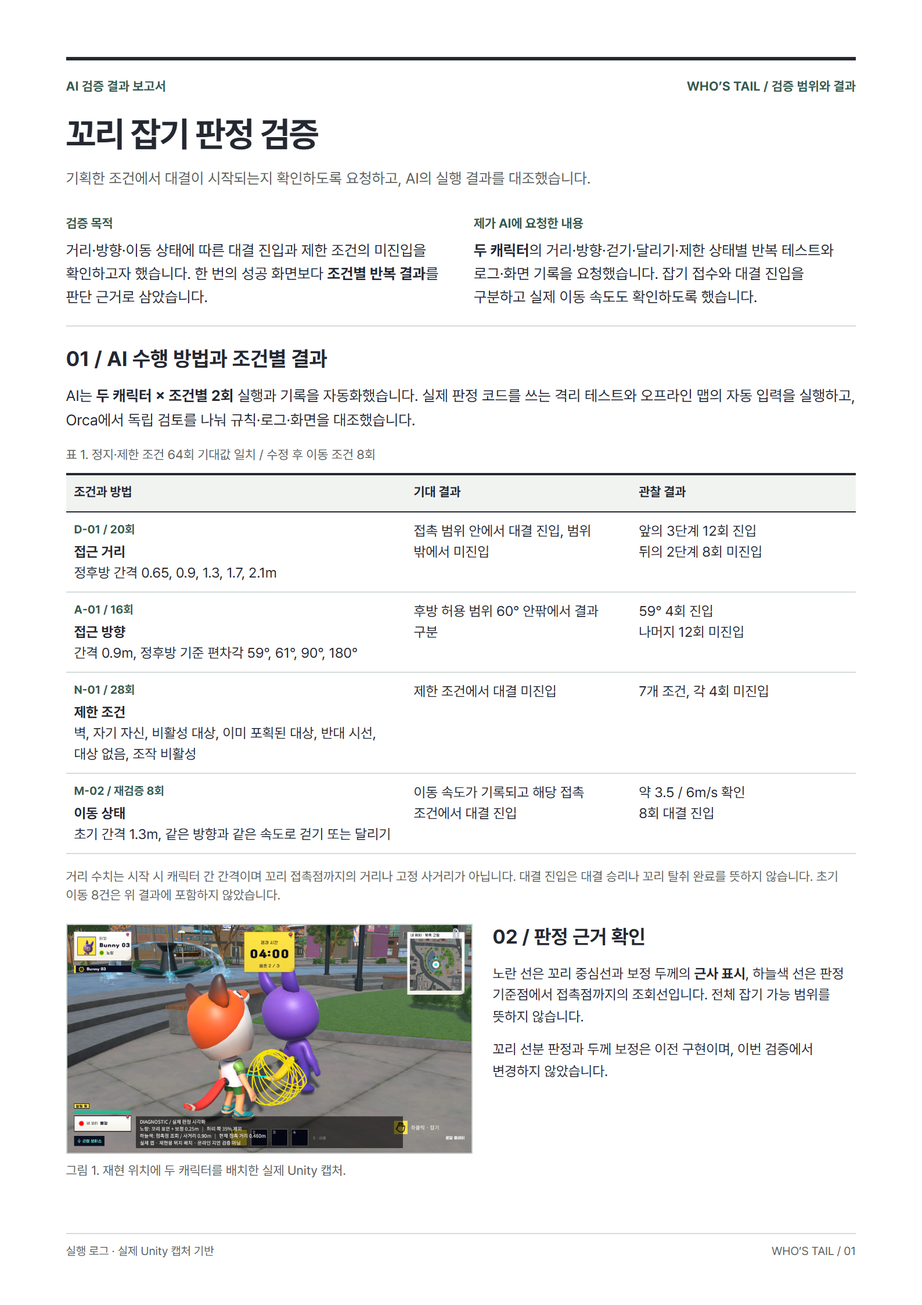
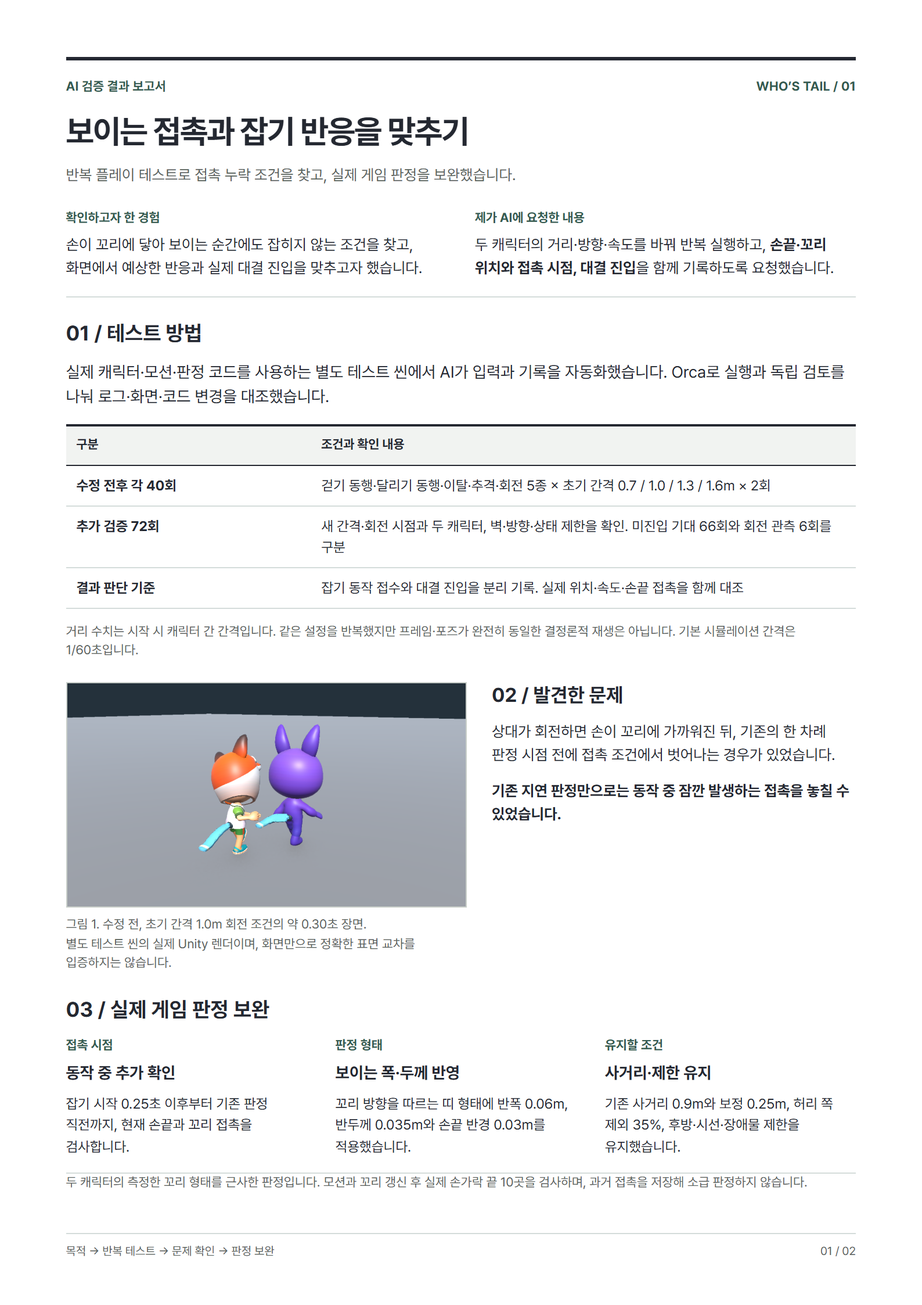
Update tail contact report with verified gameplay changes

diff --git a/docs/whos-tail/test-report-20261022.html b/docs/whos-tail/test-report-20261022.html
@@ -2,12 +2,30 @@
 @font-face{font-family:Pretendard;src:url('../../fonts/Pretendard-Regular.woff2') format('woff2');font-weight:400;font-display:swap}
 @font-face{font-family:Pretendard;src:url('../../fonts/Pretendard-Bold.woff2') format('woff2');font-weight:600 900;font-display:swap}
 
-:root{--zoom:1;--ink:#242831;--green:#345a50;--line:#d4dcda}*{box-sizing:border-box}body{margin:0;background:#dfe3df;color:var(--ink);font:13px/1.55 Pretendard,"Apple SD Gothic Neo","Segoe UI",sans-serif;word-break:keep-all}main{width:max-content;margin:24px auto}.page{width:210mm;height:297mm;padding:13mm 15mm;background:white;position:relative;margin-bottom:24px;zoom:var(--zoom)}header{border-top:3px solid var(--ink);padding-top:14px;margin-bottom:20px}.eyebrow{display:flex;justify-content:space-between;font-size:11px;letter-spacing:.01em;font-weight:700;color:var(--green)}h1{font-size:30px;line-height:1.35;letter-spacing:-1px;margin:12px 0 8px}.deck{font-size:13px;color:#59625c}h2,h4{font-size:18px;margin:0 0 10px;line-height:1.4}section{margin-bottom:15px}p{margin:0 0 10px}.scope{display:grid;grid-template-columns:1fr 1fr;gap:22px;border-bottom:1px solid var(--line);padding-bottom:14px}.scope p{font-size:13px;margin:0}.label{display:block;font-size:11px;color:var(--green);font-weight:700;margin-bottom:5px}table{width:100%;border-collapse:collapse;table-layout:fixed;font-size:12px;line-height:1.5;margin:12px 0}caption{font-size:11px;color:#59625c;text-align:left;margin-bottom:7px}th,td{text-align:left;vertical-align:top;padding:7px;border-bottom:1px solid var(--line)}th{background:#f1f3f1;border-top:2px solid var(--ink);border-bottom:1px solid var(--ink);font-size:11px}th:first-child{width:43%}.tr-case{display:block;font-size:10px;font-weight:700;color:var(--green);margin-bottom:3px}.tr-note,.note{font-size:11px;color:#59625c;line-height:1.5}.diagnostic{display:grid;grid-template-columns:1.12fr 1fr;gap:17px}.diagnostic p{font-size:12px}.diagnostic h2{font-size:17px}figure{margin:0}figure a{display:block}img{width:100%;height:auto;display:block;border:1px solid #c8cec9}figcaption{font-size:11px;line-height:1.5;color:#59625c;margin-top:7px}a{color:inherit}a:focus-visible{outline:3px solid var(--green);outline-offset:4px}.metric{padding:13px 17px;background:#edf3ee;border-top:2px solid var(--green);margin-bottom:18px}.numbers{display:flex;gap:22px;align-items:baseline}.numbers strong{font-size:34px;line-height:1.35;letter-spacing:-1px}.numbers b{color:var(--green);font-size:16px}.metric p{font-size:12px;margin:4px 0 0}.steps{display:grid;grid-template-columns:1fr 1fr 1fr;gap:16px;border-bottom:1px solid var(--line);padding-bottom:14px}.steps p{font-size:12px;margin:0}.steps strong{display:block;margin:3px 0 6px}.conclusion{border-left:3px solid var(--green);padding-left:14px}.conclusion p{font-size:12px;margin:0 0 6px}.evidence{display:grid;grid-template-columns:1fr 1fr;gap:16px}.limits{border-top:1px solid var(--ink);padding-top:12px}.limits p{font-size:11px;margin-bottom:6px}.limits h2{font-size:16px}footer{position:absolute;bottom:10mm;left:15mm;right:15mm;border-top:1px solid var(--line);padding-top:7px;font-size:10px;color:#59625c;display:flex;justify-content:space-between}.page2 header{margin-bottom:16px}.page2 h1{font-size:27px}.page2 section{margin-bottom:10px}.page2{padding-top:10mm}.page2 h2{margin-bottom:8px}.page2 header{margin-bottom:12px}.page2 .steps{padding-bottom:10px}.page2 .limits{padding-top:9px}.secondary{font-size:11px;border-top:1px solid var(--line);padding-top:8px;margin-top:8px}
+:root{--zoom:1;--ink:#242831;--green:#345a50;--line:#d4dcda}*{box-sizing:border-box}body{margin:0;background:#dfe3df;color:var(--ink);font:14px/1.55 Pretendard,"Apple SD Gothic Neo","Segoe UI",sans-serif;word-break:keep-all}main{width:max-content;margin:24px auto}.page{width:210mm;height:297mm;padding:13mm 15mm;background:white;position:relative;margin-bottom:24px;zoom:var(--zoom)}header{border-top:3px solid var(--ink);padding-top:14px;margin-bottom:20px}.eyebrow{display:flex;justify-content:space-between;font-size:11px;letter-spacing:.01em;font-weight:700;color:var(--green)}h1{font-size:30px;line-height:1.35;letter-spacing:-1px;margin:12px 0 8px}.deck{font-size:13px;color:#59625c}h2,h4{font-size:18px;margin:0 0 10px;line-height:1.4}section{margin-bottom:15px}p{margin:0 0 10px}.scope{display:grid;grid-template-columns:1fr 1fr;gap:22px;border-bottom:1px solid var(--line);padding-bottom:14px}.scope p{font-size:13px;margin:0}.label{display:block;font-size:11px;color:var(--green);font-weight:700;margin-bottom:5px}table{width:100%;border-collapse:collapse;table-layout:fixed;font-size:12px;line-height:1.5;margin:12px 0}caption{font-size:11px;color:#59625c;text-align:left;margin-bottom:7px}th,td{text-align:left;vertical-align:top;padding:7px;border-bottom:1px solid var(--line)}th{background:#f1f3f1;border-top:2px solid var(--ink);border-bottom:1px solid var(--ink);font-size:11px}th:first-child{width:43%}.tr-case{display:block;font-size:10px;font-weight:700;color:var(--green);margin-bottom:3px}.tr-note,.note{font-size:11px;color:#59625c;line-height:1.5}.diagnostic{display:grid;grid-template-columns:1.12fr 1fr;gap:17px}.diagnostic p{font-size:12px}.diagnostic h2{font-size:17px}figure{margin:0}figure a{display:block}img{width:100%;height:auto;display:block;border:1px solid #c8cec9}figcaption{font-size:11px;line-height:1.5;color:#59625c;margin-top:7px}a{color:inherit}a:focus-visible{outline:3px solid var(--green);outline-offset:4px}.metric{padding:13px 17px;background:#edf3ee;border-top:2px solid var(--green);margin-bottom:18px}.numbers{display:flex;gap:22px;align-items:baseline}.numbers strong{font-size:34px;line-height:1.35;letter-spacing:-1px}.numbers b{color:var(--green);font-size:16px}.metric p{font-size:12px;margin:4px 0 0}.steps{display:grid;grid-template-columns:1fr 1fr 1fr;gap:16px;border-bottom:1px solid var(--line);padding-bottom:14px}.steps p{font-size:12px;margin:0}.steps strong{display:block;margin:3px 0 6px}.conclusion{border-left:3px solid var(--green);padding-left:14px}.conclusion p{font-size:12px;margin:0 0 6px}.evidence{display:grid;grid-template-columns:1fr 1fr;gap:16px}.limits{border-top:1px solid var(--ink);padding-top:12px}.limits p{font-size:11px;margin-bottom:6px}.limits h2{font-size:16px}footer{position:absolute;bottom:10mm;left:15mm;right:15mm;border-top:1px solid var(--line);padding-top:7px;font-size:10px;color:#59625c;display:flex;justify-content:space-between}.page2 header{margin-bottom:16px}.page2 h1{font-size:27px}.page2 section{margin-bottom:10px}.page2{padding-top:10mm}.page2 h2{margin-bottom:8px}.page2 header{margin-bottom:12px}.page2 .steps{padding-bottom:10px}.page2 .limits{padding-top:9px}.secondary{font-size:11px;border-top:1px solid var(--line);padding-top:8px;margin-top:8px}
 @page{size:A4;margin:0}@media print{body{background:white}main{margin:0;width:auto}.page{margin:0;zoom:1;break-after:page}.page:last-child{break-after:auto}*{-webkit-print-color-adjust:exact;print-color-adjust:exact}a{text-decoration:none}}
-</style></head><body><main><article class="page"><header><div class="eyebrow"><span>AI 검증 결과 보고서</span><span>WHO’S TAIL / 검증 범위와 결과</span></div><h1>꼬리 잡기 판정 검증</h1><p class="deck">기획한 조건에서 대결이 시작되는지 확인하도록 요청하고, AI의 실행 결과를 대조했습니다.</p></header>
-<section class="scope"><div><span class="label">검증 목적</span><p>거리·방향·이동 상태에 따른 대결 진입과 제한 조건의 미진입을 확인하고자 했습니다. 한 번의 성공 화면보다 <strong>조건별 반복 결과</strong>를 판단 근거로 삼았습니다.</p></div><div><span class="label">제가 AI에 요청한 내용</span><p><strong>두 캐릭터</strong>의 거리·방향·걷기·달리기·제한 상태별 반복 테스트와 로그·화면 기록을 요청했습니다. 잡기 접수와 대결 진입을 구분하고 실제 이동 속도도 확인하도록 했습니다.</p></div></section><section><h2>01 / AI 수행 방법과 조건별 결과</h2><p>AI는 <strong>두 캐릭터 × 조건별 2회</strong> 실행과 기록을 자동화했습니다. 실제 판정 코드를 쓰는 격리 테스트와 오프라인 맵의 자동 입력을 실행하고, Orca에서 독립 검토를 나눠 규칙·로그·화면을 대조했습니다.</p><table><caption>표 1. 정지·제한 조건 64회 기대값 일치 / 수정 후 이동 조건 8회</caption><thead><tr><th scope="col">조건과 방법</th><th scope="col">기대 결과</th><th scope="col">관찰 결과</th></tr></thead><tbody><tr><td><span class="tr-case">D-01 / 20회</span><strong>접근 거리</strong><br>정후방 간격 0.65, 0.9, 1.3, 1.7, 2.1m</td><td data-label="기대 결과">접촉 범위 안에서 대결 진입, 범위 밖에서 미진입</td><td data-label="관찰 결과">앞의 3단계 12회 진입<br>뒤의 2단계 8회 미진입</td></tr><tr><td><span class="tr-case">A-01 / 16회</span><strong>접근 방향</strong><br>간격 0.9m, 정후방 기준 편차각 59°, 61°, 90°, 180°</td><td data-label="기대 결과">후방 허용 범위 60° 안팎에서 결과 구분</td><td data-label="관찰 결과">59° 4회 진입<br>나머지 12회 미진입</td></tr><tr><td><span class="tr-case">N-01 / 28회</span><strong>제한 조건</strong><br>벽, 자기 자신, 비활성 대상, 이미 포획된 대상, 반대 시선, 대상 없음, 조작 비활성</td><td data-label="기대 결과">제한 조건에서 대결 미진입</td><td data-label="관찰 결과">7개 조건, 각 4회 미진입</td></tr><tr><td><span class="tr-case">M-02 / 재검증 8회</span><strong>이동 상태</strong><br>초기 간격 1.3m, 같은 방향과 같은 속도로 걷기 또는 달리기</td><td data-label="기대 결과">이동 속도가 기록되고 해당 접촉 조건에서 대결 진입</td><td data-label="관찰 결과">약 3.5 / 6m/s 확인<br>8회 대결 진입</td></tr></tbody></table><p class="tr-note">거리 수치는 시작 시 캐릭터 간 간격이며 꼬리 접촉점까지의 거리나 고정 사거리가 아닙니다. 대결 진입은 대결 승리나 꼬리 탈취 완료를 뜻하지 않습니다. 초기 이동 8건은 위 결과에 포함하지 않았습니다.</p></section><section class="diagnostic"><figure><a href="../../images/whos-tail/validation-20261022/contact-diagnostic.png" target="_blank" rel="noopener"><img src="../../images/whos-tail/validation-20261022/contact-diagnostic.png" width="1920" height="1080" loading="eager" alt="실제 Unity 맵의 꼬리 접촉 진단 화면"></a><figcaption>그림 1. 재현 위치에 두 캐릭터를 배치한 실제 Unity 캡처.</figcaption></figure><div><h2>02 / 판정 근거 확인</h2><p>노란 선은 꼬리 중심선과 보정 두께의 <strong>근사 표시</strong>, 하늘색 선은 판정 기준점에서 접촉점까지의 조회선입니다. 전체 잡기 가능 범위를 뜻하지 않습니다.</p><p>꼬리 선분 판정과 두께 보정은 이전 구현이며, 이번 검증에서 변경하지 않았습니다.</p></div></section><footer><span>실행 로그 · 실제 Unity 캡처 기반</span><span>WHO’S TAIL / 01</span></footer></article><article class="page page2"><header><div class="eyebrow"><span>AI 검증 결과 보고서</span><span>WHO’S TAIL / 수정과 결론</span></div><h1>이동 입력을 바로잡아, 검증 근거를 확보</h1><p class="deck">게임 판정은 유지하고, 요청한 이동 조건이 실제로 수행되는지 재검증했습니다.</p></header>
-<section class="metric"><span class="label">요청한 걷기·달리기 조건 충족률</span><div class="numbers"><strong>0% → 100%</strong><b>+100%p</b></div><p><strong>수정 전 0/8회 → 수정 후 8/8회.</strong> 두 캐릭터의 입력·접촉 표본 속도가 요청값의 ±1% 이내인 사례 비율입니다. 대결 진입은 전후 모두 8/8로, 제품 정확도 개선율이 아닙니다.</p></section>
-<section><h2>03 / 테스트 입력 오류 → 수정 → 재검증</h2><div class="steps"><div><span class="label">초기 8회 · 제외</span><strong>이동 조건 입증 불가</strong><p>대결은 시작됐지만 두 캐릭터의 PlanarSpeed는 모두 0이었습니다. 잡기 모션의 슬라이드만으로 걷기·달리기 수행을 입증할 수 없어 제외했습니다.</p></div><div><span class="label">테스트 코드 수정</span><strong>입력 공급 시점 변경</strong><p>입력 공급을 에디터 갱신에서 Unity 입력 처리 직후(InputSystem.onAfterUpdate)로 옮겨, 입력 시점의 불일치를 바로잡았습니다.</p></div><div><span class="label">재검증 8회 · 채택</span><strong>실제 이동 속도 확인</strong><p>같은 캐릭터·초기 간격·걷기 및 달리기 조건으로 실행했습니다. 약 3.5 / 6m/s, 위치 변화와 대결 진입 8회를 확인했습니다.</p></div></div></section>
-<section class="conclusion"><h2>결론: 판정 유지, 테스트 유효성 보완</h2><p>정지·제한 조건 <strong>64회는 기대값과 일치</strong>했고, 수정 후 이동 <strong>8회는 실제 속도와 대결 진입을 함께 확인</strong>했습니다. 검사 범위에서 새 판정 오류가 재현되지 않아 사거리와 두께 보정값을 유지했습니다.</p><p>게임 코드·씬·기획 수치는 유지했습니다. <strong>보완한 입력·준비 절차</strong>는 향후 반복 점검에 활용할 수 있습니다.</p></section>
-<section><h2>04 / 실제 맵의 입력과 화면 대조</h2><p class="note">상대와 간격을 설정하고 잡기 준비를 기다린 뒤 마우스 입력을 자동 전달했습니다. 대결 진입 후에는 C, V, C, V를 입력했습니다.</p><div class="evidence"><figure><a href="../../images/whos-tail/validation-20261022/map-outside.png" target="_blank" rel="noopener"><img src="../../images/whos-tail/validation-20261022/map-outside.png" width="1920" height="1080" loading="eager" alt="실제 맵에서 간격 2.1m의 잡기 입력 후 대결 미진입"></a><figcaption>그림 2. 간격 2.1m: 잡기 입력 후 대결 미진입. 실행 로그와 함께 확인했습니다.</figcaption></figure><figure><a href="../../images/whos-tail/validation-20261022/map-qte.png" target="_blank" rel="noopener"><img src="../../images/whos-tail/validation-20261022/map-qte.png" width="1920" height="1080" loading="eager" alt="실제 맵 대결 진입 후 C와 V 입력에 따른 게이지 변화"></a><figcaption>그림 3. 간격 0.9m: 대결 진입. C/V 입력 4회가 처리됐고 입력마다 게이지가 같은 폭으로 이동했습니다.</figcaption></figure></div></section>
-<section class="secondary"><strong>보조 지표 / 입력 전 준비 상태의 재현성</strong><br>위치·상태를 매회 다시 맞춘 뒤, 조건별 5회 사이 입력 거리의 최대 편차가 <strong>8.54m → 0.12m</strong>로 줄었습니다(4조건, 전후 각 20회). 입력 시점 판정 원점–꼬리 거리의 최댓값−최솟값이며, 접촉 순간의 동일성이나 판정 성공률을 뜻하지 않습니다.</section><section class="limits"><h2>05 / 확인 범위와 남은 검증</h2><p>확인 범위: 로컬 자동 테스트·오프라인 연습 모드. 상대속도가 있는 추격, 온라인 지연·다중 PC Shared, 직접 플레이의 조작감·재미는 미검증입니다.</p><p>경계 실험의 판정 직전 표본은 실제 접촉 순간과 달라, 성공률·완전 동일조건 반복 근거에서 제외했습니다.</p></section><footer><span>실행 로그 · 실제 Unity 캡처 기반</span><span>WHO’S TAIL / 02</span></footer></article></main><script>function fit(){document.documentElement.style.setProperty("--zoom",Math.min(1,(innerWidth-24)/(210*96/25.4)))}addEventListener("resize",fit);fit();</script></body></html>
+
+header{margin-bottom:18px}h1{font-size:28px}section{margin-bottom:18px}
+.scope p{font-size:13px}.scope{gap:24px}.steps{padding-bottom:12px}
+th:first-child{width:31%}th,td{padding:8px 9px}table{font-size:12px}
+.diagnostic{grid-template-columns:1.1fr 1fr;gap:22px}.diagnostic p{font-size:13px}
+.page2{padding-top:13mm}.page2 section{margin-bottom:11px}.page2 h1{font-size:28px}
+.page2 header{margin-bottom:8px}.numbers strong{font-size:32px}.numbers b{font-size:13px}
+.conclusion p{font-size:13px}.evidence{gap:18px}.evidence+ .note{margin-top:9px}
+.page2 .limits{padding-top:9px}.page2 .limits p{font-size:11px}
+.page2 th,.page2 td{padding:6px 9px}.page2 h2{margin-bottom:7px}.page2 table{margin:8px 0}
+.page2 figcaption{font-size:10.5px;line-height:1.45}.page2 .conclusion p{font-size:12px}
+</style></head><body><main><article class="page"><header><div class="eyebrow"><span>AI 검증 결과 보고서</span><span>WHO’S TAIL / 01</span></div><h1>보이는 접촉과 잡기 반응을 맞추기</h1><p class="deck">반복 플레이 테스트로 접촉 누락 조건을 찾고, 실제 게임 판정을 보완했습니다.</p></header>
+<section class="scope"><div><span class="label">확인하고자 한 경험</span><p>손이 꼬리에 닿아 보이는 순간에도 잡히지 않는 조건을 찾고, 화면에서 예상한 반응과 실제 대결 진입을 맞추고자 했습니다.</p></div><div><span class="label">제가 AI에 요청한 내용</span><p>두 캐릭터의 거리·방향·속도를 바꿔 반복 실행하고, <strong>손끝·꼬리 위치와 접촉 시점, 대결 진입</strong>을 함께 기록하도록 요청했습니다.</p></div></section>
+<section><h2>01 / 테스트 방법</h2><p>실제 캐릭터·모션·판정 코드를 사용하는 별도 테스트 씬에서 AI가 입력과 기록을 자동화했습니다. Orca로 실행과 독립 검토를 나눠 로그·화면·코드 변경을 대조했습니다.</p><table><thead><tr><th>구분</th><th>조건과 확인 내용</th></tr></thead><tbody><tr><td><strong>수정 전후 각 40회</strong></td><td>걷기 동행·달리기 동행·이탈·추격·회전 5종 × 초기 간격 0.7 / 1.0 / 1.3 / 1.6m × 2회</td></tr><tr><td><strong>추가 검증 72회</strong></td><td>새 간격·회전 시점과 두 캐릭터, 벽·방향·상태 제한을 확인. 미진입 기대 66회와 회전 관측 6회를 구분</td></tr><tr><td><strong>결과 판단 기준</strong></td><td>잡기 동작 접수와 대결 진입을 분리 기록. 실제 위치·속도·손끝 접촉을 함께 대조</td></tr></tbody></table><p class="note">거리 수치는 시작 시 캐릭터 간 간격입니다. 같은 설정을 반복했지만 프레임·포즈가 완전히 동일한 결정론적 재생은 아닙니다. 기본 시뮬레이션 간격은 1/60초입니다.</p></section>
+<section class="diagnostic"><figure><a href="../../images/whos-tail/contact-review/turn-before.png" target="_blank" rel="noopener"><img src="../../images/whos-tail/contact-review/turn-before.png" width="1280" height="720" alt="격리 테스트에서 회전 중 손과 꼬리가 가까워지는 장면"></a><figcaption>그림 1. 수정 전, 초기 간격 1.0m 회전 조건의 약 0.30초 장면.<br>별도 테스트 씬의 실제 Unity 렌더이며, 화면만으로 정확한 표면 교차를 입증하지는 않습니다.</figcaption></figure><div><h2>02 / 발견한 문제</h2><p>상대가 회전하면 손이 꼬리에 가까워진 뒤, 기존의 한 차례 판정 시점 전에 접촉 조건에서 벗어나는 경우가 있었습니다.</p><p><strong>기존 지연 판정만으로는 동작 중 잠깐 발생하는 접촉을 놓칠 수 있었습니다.</strong></p></div></section>
+<section><h2>03 / 실제 게임 판정 보완</h2><div class="steps"><div><span class="label">접촉 시점</span><strong>동작 중 추가 확인</strong><p>잡기 시작 0.25초 이후부터 기존 판정 직전까지, 현재 손끝과 꼬리 접촉을 검사합니다.</p></div><div><span class="label">판정 형태</span><strong>보이는 폭·두께 반영</strong><p>꼬리 방향을 따르는 띠 형태에 반폭 0.06m, 반두께 0.035m와 손끝 반경 0.03m를 적용했습니다.</p></div><div><span class="label">유지할 조건</span><strong>사거리·제한 유지</strong><p>기존 사거리 0.9m와 보정 0.25m, 허리 쪽 제외 35%, 후방·시선·장애물 제한을 유지했습니다.</p></div></div><p class="note">두 캐릭터의 측정한 꼬리 형태를 근사한 판정입니다. 모션과 꼬리 갱신 후 실제 손가락 끝 10곳을 검사하며, 과거 접촉을 저장해 소급 판정하지 않습니다.</p></section>
+<footer><span>목적 → 반복 테스트 → 문제 확인 → 판정 보완</span><span>01 / 02</span></footer></article>
+<article class="page page2"><header><div class="eyebrow"><span>AI 검증 결과 보고서</span><span>WHO’S TAIL / 02</span></div><h1>회전 중 놓치던 접촉의 반응 개선</h1><p class="deck">전체 성공률 대신, 같은 재현 조건의 수정 전후와 제한 조건을 구분해 확인했습니다.</p></header>
+<section class="metric"><span class="label">초기 간격 1.0m · 회전 조건의 대결 진입</span><div class="numbers"><strong>0/2회 → 2/2회</strong><b>2회 모두 미진입 → 진입</b></div><p>수정 전후 각 40회에서 해당 회전 조건 2회만 결과가 바뀌었습니다. 작은 표본의 특정 조건 결과이며, 전체 정확도나 일반적인 성공률 개선을 뜻하지 않습니다.</p></section>
+<section><h2>04 / 재검증 결과</h2><table><thead><tr><th>검증 항목</th><th>결과와 해석</th></tr></thead><tbody><tr><td><strong>나머지 38회 비교</strong></td><td>대결 진입 여부는 동일. 다만 0.7m 걷기 동행은 진입 시점이 약 0.60초 → 0.25초로 앞당겨졌습니다.</td></tr><tr><td><strong>추가 제한 조건 66회</strong></td><td>미진입 기대 66회에서 진입 0회. 나머지 6회는 0.85m에서 회전 전 3회 진입, 1.15m에서 3회 미진입. 수정 전 비교가 없어 개선 집계에서는 제외했습니다.</td></tr><tr><td><strong>중복 진입·재입력</strong></td><td>추가 72회에서 대결 중복 생성 0회, 대결 중 잡기 재입력 접수 0회.</td></tr><tr><td><strong>20Hz 시뮬레이션</strong></td><td>1.0m 회전 조건 0/2회 진입으로 짧은 접촉 누락은 미해결. 수정 전 비교는 없으며 FPS·성능 측정이 아닙니다.</td></tr></tbody></table></section>
+<section><h2>05 / 실제 맵과 대결 흐름 확인</h2><div class="evidence"><figure><a href="../../images/whos-tail/contact-review/turn-after.png" target="_blank" rel="noopener"><img src="../../images/whos-tail/contact-review/turn-after.png" width="1280" height="720" alt="수정 후 회전 조건의 대결 진입 직후 테스트 장면"></a><figcaption>그림 2. 최종 수정 후 회전 조건의 결과 화면. 대결 진입 후 포즈로 전환된 장면으로, 그림 1과 같은 시점의 자세 비교가 아닙니다.</figcaption></figure><figure><a href="../../images/whos-tail/contact-review/map-gauge.png" target="_blank" rel="noopener"><img src="../../images/whos-tail/contact-review/map-gauge.png" width="1920" height="1080" alt="실제 오프라인 맵에서 대결 UI와 게이지 반응을 확인한 화면"></a><figcaption>그림 3. 실제 오프라인 맵에서 자동 입력으로 확인한 대결 UI. C/V 입력 4회와 균형값 최소 −0.256을 로그로 대조했습니다.</figcaption></figure></div><p class="note">실제 맵은 범위 밖 미진입·대결 진입·재입력 거절을 확인한 통합 점검입니다. 새 접촉 검사 경로의 실행 여부를 구분한 결과나 직접 플레이 기록은 아닙니다.</p></section>
+<section class="conclusion"><h2>결론 / 놓치던 접촉을 반영하고, 제한은 유지</h2><p><strong>회전 중 접촉을 놓치던 2회가 모두 대결 진입으로 이어졌습니다.</strong> 사거리를 일괄적으로 늘리지 않고 접촉 형태와 검사 시점을 보완해, 이번 자동 테스트에서 놓치던 회전 접촉을 판정에 반영했습니다.</p></section>
+<section class="limits"><h2>남은 확인</h2><p>온라인 지연·다중 PC, 직접 플레이의 조작감과 재미, 모든 지형·아이템 조합은 미검증입니다. 0.7m 회전은 프레임 경계에 따라 결과가 달라 개선 집계에서 제외했습니다. 20Hz에서 남은 접촉 누락도 후속 검증 대상으로 남겼습니다.</p></section>
+<footer><span>실제 코드 변경 · 원시 로그 · Unity 캡처 대조</span><span>02 / 02</span></footer></article></main>
+<script>function fit(){document.documentElement.style.setProperty("--zoom",Math.min(1,(innerWidth-24)/(210*96/25.4)))}addEventListener("resize",fit);fit();</script></body></html>

diff --git a/data.js b/data.js
@@ -100,7 +100,7 @@ window.PORTFOLIO_UNITS = [
           {
             "title": "6. AI 검증",
             "tag": "AI 활용, 검증",
-            "html": "<section id=\"tail-validation\"><h2>AI 검증 결과 보고서</h2>\n<h3>확인 목적 — 꼬리 잡기가 기획한 조건에서 시작되는가</h3>\n<p>꼬리를 잡는 행동은 접근 거리뿐 아니라 방향과 이동 상태에도 영향을 받습니다. 저는 <strong>기획한 조건에서 대결이 시작되고, 벽이나 조작 제한이 있는 상황에서는 시작되지 않는지</strong> 확인하고자 했습니다. 한 번의 성공 화면으로 판단하지 않고 조건을 바꿔 반복 확인하는 것이 목적이었습니다.</p>\n<h3>AI에 요청한 내용 — 조건을 나누고 실제 동작을 기록</h3>\n<p><strong>두 캐릭터를 기준으로 거리, 방향, 걷기·달리기와 제한 상태를 나눠 테스트하고, 조건별 결과를 로그와 스크린샷으로 남기도록 요청</strong>했습니다. 잡기 동작이 재생된 것과 대결에 진입한 것을 구분하고, 요청한 이동 속도가 실제로 적용됐는지도 함께 확인하도록 했습니다.</p>\n<h3>AI 수행과 확인 결과 — 성공 여부보다 실행 조건부터 점검</h3>\n<p>AI는 실제 캐릭터와 판정 코드를 사용하는 테스트를 구성하고, 반복 실행과 결과 기록을 자동화했습니다. Orca 툴로 실행과 독립 검토를 나눠 원문 규칙, 로그, 실제 화면을 대조했습니다.</p>\n<p>정지·제한 조건 64회는 기대한 대결 진입 여부와 일치했습니다. 반면 초기 이동 8회는 모두 대결에 진입했어도 <strong>실제 속도가 0m/s</strong>였습니다. 걷기·달리기를 확인한 결과로 채택할 수 없어, 이동 입력이 전달되는 시점을 수정하고 같은 조건으로 재검증했습니다. 실제 맵의 반복 실험에서는 매회 위치와 상태를 다시 맞추도록 준비 절차도 보완했습니다.</p>\n<h3>향상 결과 — 이동 조건의 유효성과 반복 재현성 개선</h3>\n<ul class=\"tail-test-summary\">\n<li><strong>요청한 이동 조건 충족: 0/8회 → 8/8회.</strong> 수정 후에는 두 캐릭터가 요청한 속도로 움직이며 대결에 진입하는지 함께 확인했습니다.</li>\n<li><strong>반복별 입력 거리 편차: 8.54m → 0.12m.</strong> 실제 맵의 4개 조건을 각각 5회씩, 수정 전후 총 20회씩 비교했습니다. 매회 준비 상태를 맞춰 비교의 출발 조건이 흔들리는 정도를 줄였습니다.</li>\n</ul>\n<p>이 결과를 바탕으로 <strong>기존 게임 판정은 유지하고, 이후 변경을 비교할 테스트 절차를 보완</strong>했습니다. 대결 진입 여부뿐 아니라 테스트가 요청대로 수행됐는지 확인할 근거를 함께 확보한 것이 이번 검증의 성과입니다.</p>\n<p class=\"wt-note\">거리 편차는 입력 순간의 판정 기준점과 꼬리 접촉점 사이 거리에 대해, 조건별 5회 측정의 최댓값−최솟값을 구한 뒤 4개 조건 중 가장 큰 값을 비교한 것입니다. 두 개선 수치는 테스트 조건의 유효성과 반복 재현성을 나타내며, 게임 판정 정확도나 시간 절감률이 아닙니다.</p>\n<div class=\"wt-pages tail-report-pages\"><figure><a href=\"images/whos-tail/report-a4/page-1.png?v=request-sequence\" target=\"_blank\" rel=\"noopener\"><img src=\"images/whos-tail/report-a4/page-1.png?v=request-sequence\" width=\"1588\" height=\"2246\" loading=\"lazy\" alt=\"AI 검증 결과 보고서: 꼬리 잡기 판정 1쪽\"></a><figcaption>AI 검증 결과 보고서 1 / 2</figcaption></figure><figure><a href=\"images/whos-tail/report-a4/page-2.png?v=request-sequence\" target=\"_blank\" rel=\"noopener\"><img src=\"images/whos-tail/report-a4/page-2.png?v=request-sequence\" width=\"1588\" height=\"2246\" loading=\"lazy\" alt=\"AI 검증 결과 보고서: 수정과 결론 2쪽\"></a><figcaption>AI 검증 결과 보고서 2 / 2</figcaption></figure></div>\n<p><a href=\"docs/whos-tail/test-report-20261022.html\" target=\"_blank\" rel=\"noopener\">AI 검증 결과 보고서 열기 →</a></p></section>"
+            "html": "<section id=\"tail-validation\"><h2>AI 검증 결과 보고서</h2>\n<h3>확인 목적과 요청 — 보이는 접촉이 잡기로 이어지는가</h3>\n<p>꼬리 잡기는 화면으로 예상한 접촉과 실제 반응이 맞아야 합니다. 저는 <strong>손과 꼬리가 가까워지는 순간에도 잡기를 놓치는 조건이 있는지</strong> 확인하고자, AI에 두 캐릭터의 거리·방향·이동 속도를 바꿔 반복 테스트하고 손끝 위치, 꼬리 형태, 대결 진입 여부를 함께 기록하도록 요청했습니다.</p>\n<h3>문제 확인과 보완 — 접촉 형태와 시점을 함께 반영</h3>\n<p>AI가 실제 캐릭터와 판정 코드를 사용해 실행한 로그를 대조한 결과, <strong>상대가 회전할 때 손이 꼬리에 가까워졌다가 기존 판정 시점 전에 벗어나는 조건</strong>을 확인했습니다. 사거리를 일괄적으로 늘리는 대신, 잡기 동작 중 실제 손끝과 꼬리의 폭·두께를 따라 접촉을 추가로 확인하도록 판정을 보완했습니다. 기존 거리와 후방·장애물 제한은 유지했습니다.</p>\n<h3>재검증 결과 — 놓치던 회전 접촉에서 대결 진입 확인</h3>\n<ul class=\"tail-test-summary\">\n<li><strong>초기 간격 1.0m 회전 조건: 0/2회 → 2/2회 대결 진입.</strong> 수정 전후 각 40회 중 해당 2회의 결과가 바뀌었고, 나머지 38회는 진입 여부가 같았습니다. 다만 0.7m 걷기 동행의 진입 시점은 약 0.60초에서 0.25초로 앞당겨졌습니다.</li>\n<li><strong>추가 제한 조건 66회: 의도하지 않은 대결 진입 0회.</strong> 별도 72회 검증 중 벽·정면 접근·조작 제한 등 미진입을 기대한 조건만 구분한 결과입니다.</li>\n</ul>\n<p>이 검증에서는 <strong>기존에 놓치던 회전 중 접촉이 잡기 반응으로 이어지도록 보완</strong>했습니다. Orca에서 실행과 독립 검토를 나눠 로그와 코드 변경을 대조했습니다.</p>\n<p class=\"wt-note\">오프라인 자동 테스트에서 확인한 결과이며 전체 판정 정확도나 사용자 만족도 개선율은 아닙니다. 20Hz 시뮬레이션에서는 짧은 접촉 누락이 남았고, 온라인 환경과 직접 플레이의 조작감·재미는 후속 확인이 필요합니다.</p>\n<div class=\"wt-pages tail-report-pages\"><figure><a href=\"images/whos-tail/report-a4/page-1.png?v=gameplay-contact\" target=\"_blank\" rel=\"noopener\"><img src=\"images/whos-tail/report-a4/page-1.png?v=gameplay-contact\" width=\"1588\" height=\"2246\" loading=\"lazy\" alt=\"AI 검증 결과 보고서: 테스트 목적과 판정 보완\"></a><figcaption>AI 검증 결과 보고서 1 / 2 — 목적·방법·수정</figcaption></figure><figure><a href=\"images/whos-tail/report-a4/page-2.png?v=gameplay-contact\" target=\"_blank\" rel=\"noopener\"><img src=\"images/whos-tail/report-a4/page-2.png?v=gameplay-contact\" width=\"1588\" height=\"2246\" loading=\"lazy\" alt=\"AI 검증 결과 보고서: 정량 결과와 결론\"></a><figcaption>AI 검증 결과 보고서 2 / 2 — 결과·결론</figcaption></figure></div>\n<p><a href=\"docs/whos-tail/test-report-20261022.html\" target=\"_blank\" rel=\"noopener\">AI 검증 결과 보고서 열기 →</a></p></section>"
           },
           {
             "title": "7. 작업 관리 및 회고",

diff --git a/CLAUDE.md b/CLAUDE.md
@@ -1,5 +1,14 @@
 # CLAUDE.md
 
+## 2026-10-22 실제 접촉 판정 보완 보고서와 v24 기반 지원서
+
+- Who’s Tail의 최신 AI 검증은 테스트 입력만 수정했던 이전 검증을 넘어 실제 게임 판정을 보완한 후속 작업이다. 기존 사거리·후방·시선·장애물 조건은 유지하고, 잡기 모션 중 현재 손끝과 꼬리 폭·두께를 따르는 추가 접촉 검사를 적용했다. 게임 수정은 NangManProject 담당자가 수행했으며, 공개 페이지에 출시·배포 완료로 표현하지 않는다.
+- 기준 비교는 수정 전후 각 40회다. 초기 간격 1.0m 회전 조건은 대결 진입 0/2회 → 2/2회, 나머지 38회는 진입 여부가 같았다. 단, 0.7m 걷기 동행의 진입 시점은 약 0.60초 → 0.25초로 달라졌다. 추가 72회 중 미진입 기대 66회는 진입 0회다. 이를 전체 정확도·사용자 만족도·재미 개선율로 바꾸지 않는다.
+- 20Hz 시뮬레이션의 1.0m 회전 누락과 0.7m 회전의 변동은 남아 있다. 실제 맵 자동 입력은 통합 동작 점검이며 추가 접촉 경로 실행을 구분한 증거는 아니다. 온라인·직접 플레이의 조작감과 재미는 미검증이다.
+- 최신 보고서는 `docs/whos-tail/test-report-20261022.html`, A4 두 쪽은 `images/whos-tail/report-a4/`, 실제 원본 캡처는 `images/whos-tail/contact-review/`다. Pretendard, 날짜 제외, PC 2열, AI 검증 다음 작업 관리·회고의 별도 항목 순서를 유지한다.
+- 비공개 지원서의 이번 기준은 `application-v24.pdf`의 서체·색감이다. 첫 페이지 상단에 옅은 격자와 절제된 꾸밈 요소를 추가하고, 소개는 “새로운 재미를 발굴하고, 구체적인 게임 디자인으로 풀어냅니다.”로 쓴다. 별도 AI 협업 운영과 검증 페이지를 제외하고 주요 기획 의도·선택과 최신 이미지를 선별한다. 사용자가 확정한 Markdown 지원서 초안은 변경하지 않는다.
+- 원본 검산, 독립 검토, 수정 및 화면 확인 기록: `.work/ai-runs/final-report-v29-20261022/`.
+
 이 파일은 Claude Code가 이 저장소에서 작업할 때 참고하는 규칙과 맥락입니다.
 
 ## 공통 AI 협업 기준
